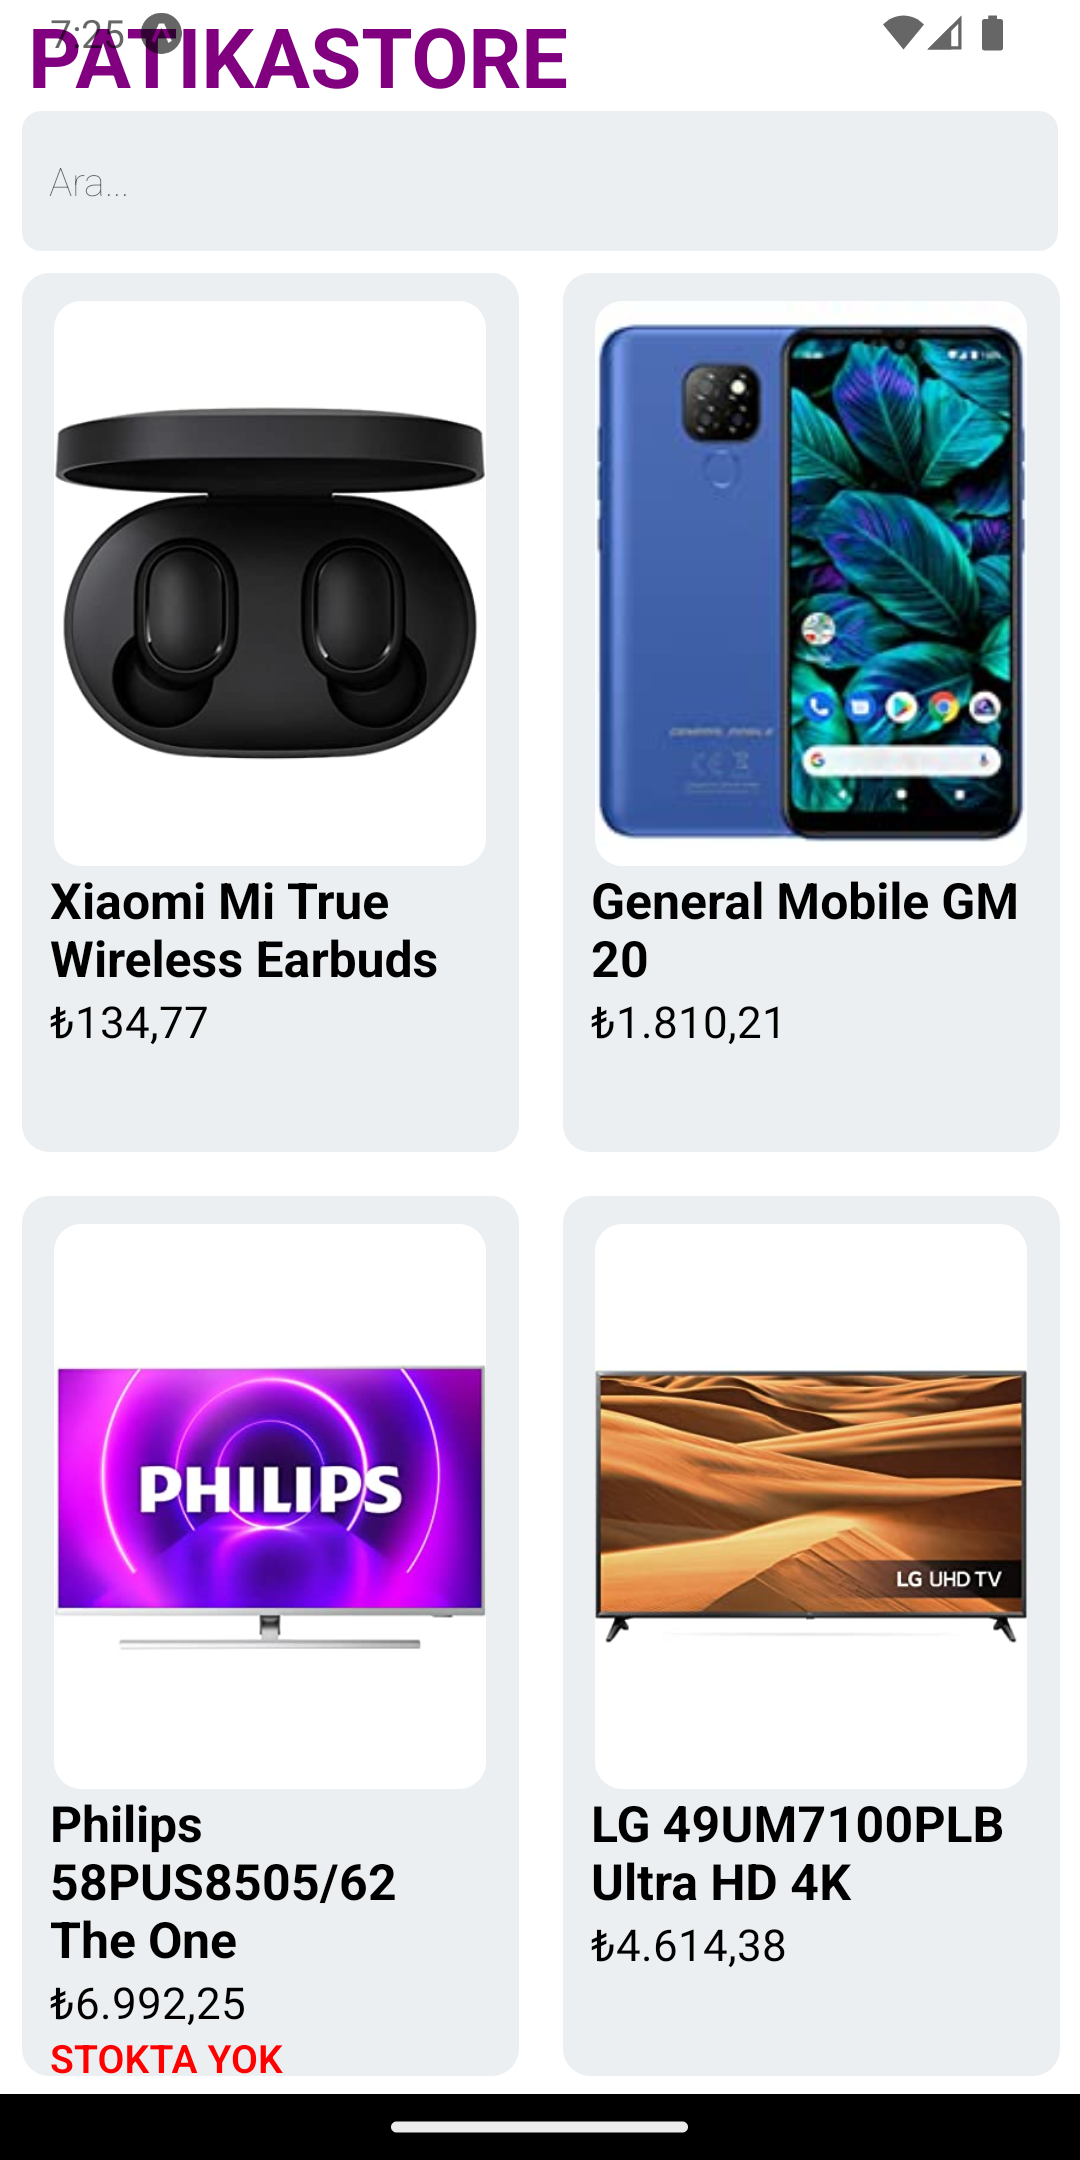
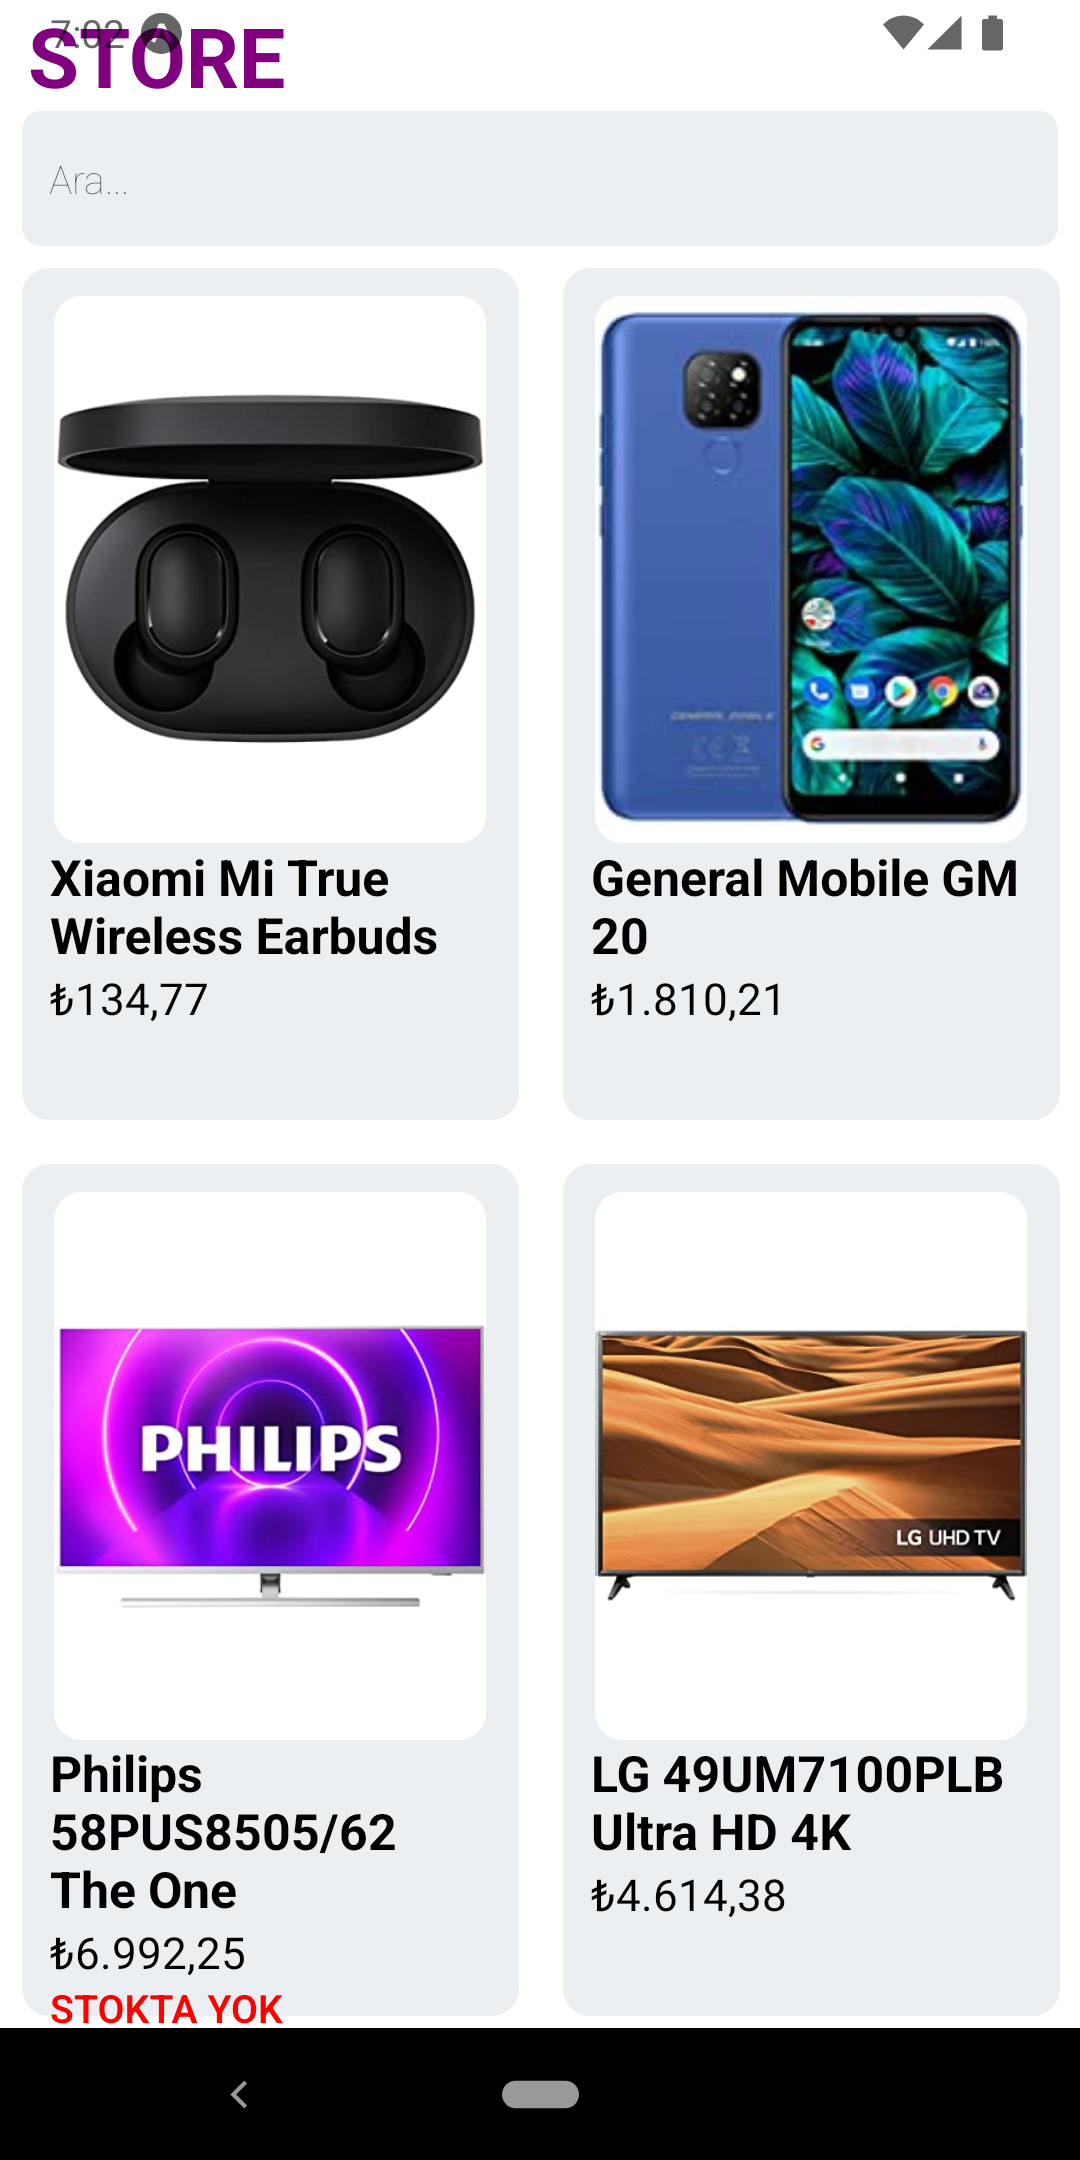
photo and readme updated

diff --git a/App.js b/App.js
@@ -8,7 +8,7 @@ export default function App() {
   return (
     <Provider store={store}>
       <SafeAreaView style={styles.container}>
-        <Text style={styles.title}>PATIKASTORE</Text>
+        <Text style={styles.title}>STORE</Text>
         <View>
           <SearchButton />
           <Header />

diff --git a/README.md b/README.md
@@ -1,4 +1,6 @@
-![photoofapp](./rn-patikastore.png)
+| Top                          | Bottom                     |
+| ---------------------------- | -------------------------- |
+| ![top](./rn-patikastore.png) | ![bottom](./rn-bottom.png) |
 
 ## About
 
